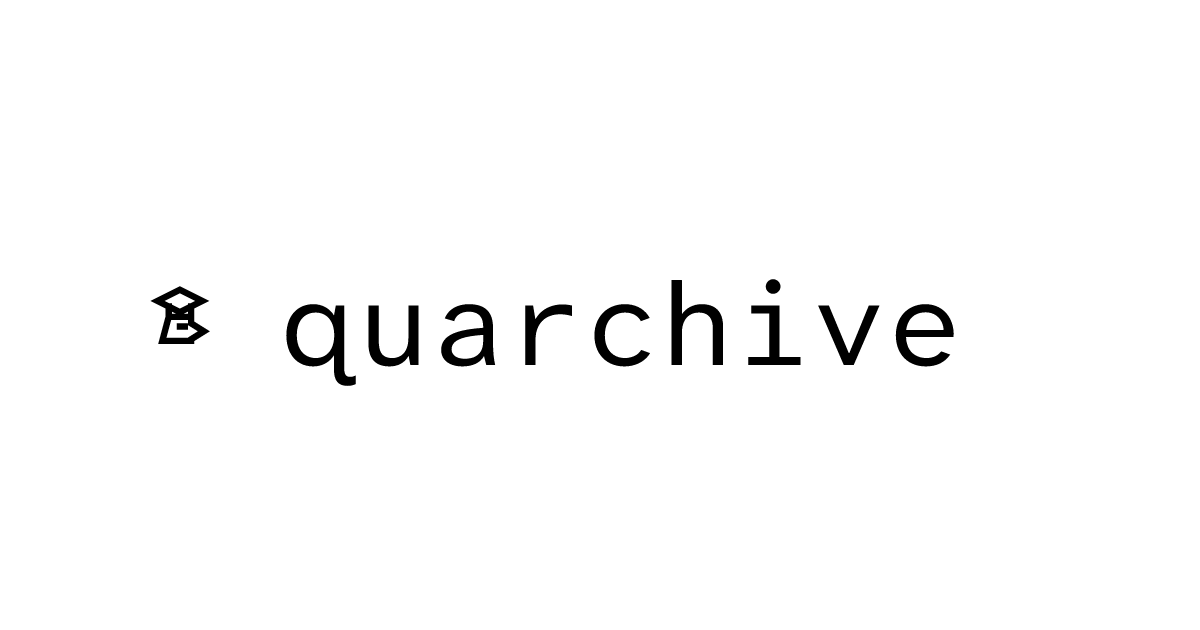
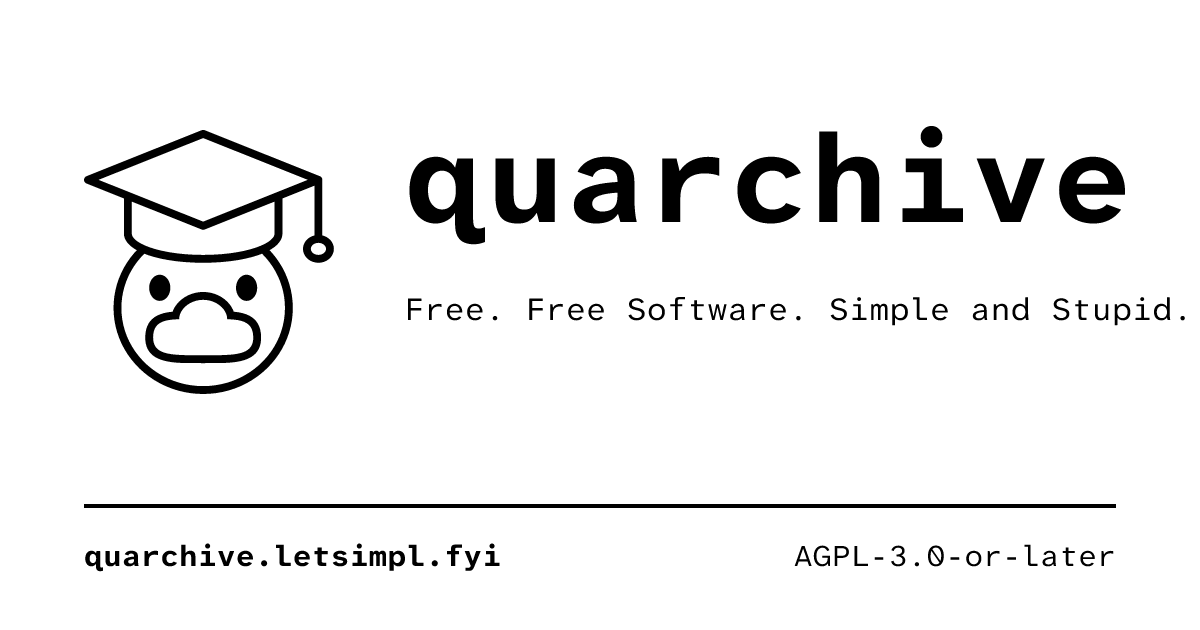
use the official Quarchive brand kit

diff --git a/tests/shell.test.js b/tests/shell.test.js
@@ -1,7 +1,9 @@
 import test from 'node:test';
 import assert from 'node:assert/strict';
+import { createHash } from 'node:crypto';
 import { readFileSync, existsSync, readdirSync } from 'node:fs';
 const read = path => readFileSync(new URL(`../${path}`, import.meta.url), 'utf8');
+const bytes = path => readFileSync(new URL(`../${path}`, import.meta.url));
 const exists = path => existsSync(new URL(`../${path}`, import.meta.url));
 const filesIn = dir => {
   if (!exists(dir)) return null;
@@ -18,9 +20,15 @@ test('manifest icons exist and the page links its icons and scripts', () => {
   for (const [, href] of read('index.html').matchAll(/(?:href|src)="\.\/([^"]+)"/g)) assert.ok(exists(href), href);
 });
 
-test('icons are the quarchive brand kit copies (never redrawn here)', () => {
-  assert.match(read('icons/BRAND-README.md'), /quarchive/i);
+test('icons are unedited copies of the official Quarchive brand kit', () => {
+  const assets = JSON.parse(read('brand/brand.json')).assets;
+  assert.ok(assets && Object.keys(assets).length);
+  assert.deepEqual(filesIn('icons').sort(), Object.keys(assets).sort());
+  assert.match(read('icons/README.md'), /founder/i);
   assert.match(read('icons/favicon.svg'), /quarchive/i);
+  for (const [name, hash] of Object.entries(assets)) {
+    assert.equal(createHash('sha256').update(bytes(`icons/${name}`)).digest('hex'), hash, name);
+  }
 });
 
 test('service worker: precaches every runtime file, versions its cache with the app and leaves /api/* on the network', () => {

diff --git a/sw.js b/sw.js
@@ -19,7 +19,12 @@ const SHELL = [
   './brand/fonts/courier-prime-400-latin.woff2', './brand/fonts/courier-prime-700-latin.woff2', './brand/fonts/noto-serif-malayalam.woff2',
   './vendor/preact.module.js', './vendor/htm.module.js', './vendor/pdf-lib/pdf-lib.mjs',
   './vendor/browser-image-compression/browser-image-compression.mjs', './vendor/pdfjs/pdf.mjs', './vendor/pdfjs/pdf.worker.mjs',
-  './icons/favicon.svg', './icons/logo-mark.svg', './icons/logo-mark-inverse.svg', './icons/icon-192.png', './icons/icon-512.png', './icons/icon-512-maskable.png', './icons/apple-touch-icon.png', './icons/og-image.png',
+  './icons/logo-primary.svg', './icons/logo-primary-inverse.svg', './icons/logo-mark.svg', './icons/logo-mark-inverse.svg',
+  './icons/logo-mono.svg', './icons/logo-mono-inverse.svg', './icons/favicon.svg', './icons/app-icon.svg',
+  './icons/app-icon-192.png', './icons/app-icon-512.png', './icons/apple-touch-icon-180.png', './icons/app-icon-maskable.svg',
+  './icons/app-icon-maskable-512.png', './icons/splash.svg', './icons/splash-1080x1920.png', './icons/loading.svg',
+  './icons/loading-1080x1920.png', './icons/og-image.svg', './icons/og-image.png', './icons/github-social.svg',
+  './icons/github-social.png', './icons/avatar-400.png',
 ];
 
 self.addEventListener('install', event => {

diff --git a/index.html b/index.html
@@ -28,8 +28,8 @@
   <meta name="apple-mobile-web-app-title" content="quarchive">
   <link rel="manifest" href="./manifest.json">
   <link rel="icon" type="image/svg+xml" href="./icons/favicon.svg">
-  <link rel="icon" type="image/png" sizes="192x192" href="./icons/icon-192.png">
-  <link rel="apple-touch-icon" href="./icons/apple-touch-icon.png">
+  <link rel="icon" type="image/png" sizes="192x192" href="./icons/app-icon-192.png">
+  <link rel="apple-touch-icon" href="./icons/apple-touch-icon-180.png">
   <script src="./js/theme.js"></script>
   <link rel="stylesheet" href="./brand/tokens/tokens.css">
   <link rel="stylesheet" href="./brand/css/base.css">

diff --git a/icons/README.md b/icons/README.md
@@ -1,0 +1,77 @@
+# quarchive brand kit
+
+quarchive (quarchive.letsimpl.fyi) is a serverless, open-source archive of previous-year university exam question
+papers. This folder is its identity kit. Source of truth is this repo; apps copy from here
+(`https://brand.letsimpl.fyi/assets/quarchive/...`).
+
+Status: **ready** (founder-supplied, 2026-11-26).
+
+## Identity
+
+| | |
+|---|---|
+| Name | **quarchive** (lowercase, one word) |
+| Descriptor | **Free. Free Software. Simple and Stupid.** |
+| Licence line | AGPL-3.0-or-later |
+| Site | quarchive.letsimpl.fyi |
+
+There is no tagline. Do not write one; use the descriptor alone.
+
+## The mark
+
+A duck in a graduation cap. Round head, two solid eyes, a bill drawn as two open curves, and a mortarboard above with
+a band, a cord and a bobble hanging on the right. Line work, not filled blocks: 6 units of stroke on a 256-unit grid,
+so the drawing stays light and the shells stay open.
+
+Geometry (256-unit grid, viewBox `0 0 256 256`): the mortarboard is a rhombus centred on x 128, spanning x 40.153 to
+215.847 and y 25.069 to 95.222. The head is a circular arc closing at y 220.364, with the bill across the lower third.
+Visible extent including the stroke is x 37.153 to 227.632, y 22.069 to 223.364 — that box is what the kit scales and
+centres against, so the tassel on the right is accounted for.
+
+The mark is *nearly* symmetric: every mirrored control point is exact about x 128, and the tassel is the one
+deliberately one-sided element. Do not mirror or remove the tassel.
+
+Small sizes: the stroke is 6 of 256, which is thinner than a typical app icon and reads faint below about 24 px. The
+favicon is the same geometry with a `prefers-color-scheme` rule so it switches to white on a dark tab.
+
+The wordmark is "quarchive" in Atkinson Hyperlegible Mono Bold (SIL OFL 1.1), converted to outlines so no file needs
+the font. The mark is as tall as the type size and sits on the baseline. Gap between mark and word: about a third of
+the type size.
+
+## Use
+
+- Default: black on white (`logo-primary.svg`). On black use `logo-primary-inverse.svg`.
+- Clear space: at least half the mark's height on every side.
+- Minimum size: the mark 32 px; the lockup 160 px wide.
+- On a photo or any busy background use the one-colour logo on a solid white or black block.
+
+Do not: add colour, a drop shadow or a gradient; round the corners; change the stroke weight; add or remove the bill,
+the eyes or the tassel; rotate, outline or stretch it; redraw the wordmark in another font; put the mark inside a
+rounded shape.
+
+## Files
+
+| File | Use |
+|---|---|
+| `logo-mark.svg`, `logo-mark-inverse.svg` | Symbol only, transparent |
+| `logo-primary.svg`, `logo-primary-inverse.svg` | Lockup (mark + wordmark), 16:9, on page / on ink |
+| `logo-mono.svg`, `logo-mono-inverse.svg` | One-colour lockup, transparent |
+| `favicon.svg` | Browser tab; follows the device light/dark scheme |
+| `app-icon.svg`, `app-icon-192.png`, `app-icon-512.png`, `apple-touch-icon-180.png` | App icons, full bleed, black on white |
+| `app-icon-maskable.svg`, `app-icon-maskable-512.png` | Maskable icon (mark inside the 80% safe zone) |
+| `splash.svg`, `splash-1080x1920.png` | PWA splash, 9:16 |
+| `loading.svg`, `loading-1080x1920.png` | Loading screen, 9:16 (word "Loading") |
+| `og-image.svg`, `og-image.png` | Social share image, 1200 x 630 |
+| `github-social.svg`, `github-social.png` | GitHub social preview, 1280 x 640 |
+| `avatar-400.png` | Profile picture |
+
+## Licence
+
+Design assets: CC BY-SA 4.0 (see `../../LICENSING.md`). The Atkinson Hyperlegible Mono outlines keep the OFL notice
+in `../../fonts/`.
+
+## Provenance
+
+The mark was drawn by the founder in VectorCraft on 2026-11-26; its control points were normalised to exact
+left-right symmetry, and this kit was generated from it by an AI assistant at the founder's direction, as a
+documented exception to the no-agent-brand-material rule. See `../../CREDITS.md` and `../../tools/quarchive-kit.py`.

diff --git a/AGENTS.md b/AGENTS.md
@@ -15,14 +15,14 @@ Design comes from **https://brand.letsimpl.fyi**, the source of truth for the wh
 - Fonts are self-hosted by the brand. No CDN, analytics, trackers, cookie banners or third-party requests. The CSP in `_headers` allows only the API hosts actually used.
 - Accessibility floor: 4.5:1 text, 3:1 control edges, 44px targets (48px preferred), 3px focus ring, 320px width, 200% text, `prefers-reduced-motion`, `prefers-color-scheme`, skip link, visible labels.
 - **Do not invent brand copy** (taglines, slogans, mission statements). Documentation prose is fine.
-- **Do not generate brand assets** without an explicit request from the founder. The existing duck-with-cap kit in `icons/` was generated by an AI subagent at the user's explicit request and is pending founder review; treat it as provisional. Record any borrowed or generated material in `CREDITS.md`.
+- **Do not generate brand assets** without an explicit request from the founder. The duck-with-cap kit in `icons/` is the official, founder-drawn Quarchive kit from the brand repo; `npm run brand` refreshes it. Record any borrowed or generated material in `CREDITS.md`.
 
 ## Layout
 
 ```
 index.html          App shell: metadata, theme script, brand CSS + styles.css, js/main.js
 styles.css          App layout only; all design values come from brand/
-brand/              Vendored tokens, CSS, fonts + brand.json checksums (do not edit)
+brand/              Vendored tokens, CSS, fonts + brand.json checksums for brand/ and icons/ (do not edit)
 vendor/             Prebuilt ESM libraries + licences (no npm install at runtime)
 js/
   main.js           Mounts the app into #app, starts update checks
@@ -36,7 +36,7 @@ js/
   *.js              Pure logic ported from the old React app (archive, metadata, dedup, wikidata, ...)
 functions/api/      Cloudflare Pages Functions (login, s3keys, validate, upload, pdf)
 workers/            Hash + OCR Web Workers
-icons/              Provisional identity kit + BRAND-README.md
+icons/              Official Quarchive identity kit vendored from the brand repo + README.md
 sw.js               Versioned app-shell precache
 _headers            Cache policy and strict CSP
 tests/              node:test units + policy tests, tests/e2e/ Playwright specs

diff --git a/ROADMAP.md b/ROADMAP.md
@@ -476,11 +476,10 @@ All three layers from CLAUDE.md §12 run per file, but with batch-specific UX:
 ## Phase 10 — Branding: Quackademic the Duck *(deferred)*
 
 > **Status: superseded.** Branding now follows https://brand.letsimpl.fyi, not the
-> yellow duck palette below. The user explicitly asked for a minimal monoline
-> duck-with-cap mark; `icons/` contains an agent-generated provisional kit pending
-> founder review. Bulk upload (Phase 9A) is implemented in code even though parts
-> of this roadmap still describe it as parked. The notes below are kept as the
-> historical plan of record, not as instructions for the current UI.
+> yellow duck palette below. The founder-drawn duck-with-cap kit is vendored from
+> the brand repo into `icons/`. Bulk upload (Phase 9A) is implemented in code even
+> though parts of this roadmap still describe it as parked. The notes below are
+> kept as the historical plan of record, not as instructions for the current UI.
 
 **Goal:** Give Quarchive a distinct, memorable visual identity built around the pun at the heart of the name — **Quack** + **Archive**. The mascot is **Quackademic**, a scholarly duck who keeps papers safe. Applies to logo, favicon, navigation, empty states, OG image, and README hero. Must respect the existing mobile-first, editorial aesthetic (CLAUDE.md §2).
 

diff --git a/DESIGN.md b/DESIGN.md
@@ -39,6 +39,6 @@ Search and metadata come from Archive.org; institution search from Wikidata SPAR
 
 ## Identity kit
 
-The brand repo has no Quarchive asset kit. At the user's explicit request an AI subagent generated a provisional monoline duck-with-cap mark in `icons/` (favicon, logo mark, PWA icons and OG image). It follows the brand's black/white stroke style but **deviates from the brand repo rule that agents create no brand material**. It is pending founder review and should be promoted into `brand/assets/quarchive/` if accepted. The header wordmark itself remains live text in CSS, not an image.
+The official Quarchive kit — the founder's duck in a graduation cap — is vendored unedited from `https://brand.letsimpl.fyi/assets/quarchive/` into `icons/` by `npm run brand`. The header wordmark itself remains live text in CSS, not an image.
 
 This file contains no brand copy. Product words are kept to functional labels; founder-reviewed prose lives in `README.md`.

diff --git a/CREDITS.md b/CREDITS.md
@@ -10,6 +10,6 @@
 - **Internet Archive** — permanent, free storage and the Advanced Search / metadata APIs.
 - **Wikidata** — canonical institution identifiers and SPARQL queries.
 - **gpura.org** — Kerala Digital Archive (Granthappura), the original UI inspiration for the mobile-first document layout.
-- **Identity kit** — the provisional duck-with-cap mark in `icons/` was generated by an AI subagent at the user's explicit request; it is not yet part of the brand repo and is pending founder review. No third-party artwork was used.
+- **Identity kit** — the official Quarchive duck-with-cap kit from [the letsimpl.fyi brand](https://brand.letsimpl.fyi/#/assets), vendored unedited into `icons/`. The mark was drawn by the founder in VectorCraft; the kit was generated by an AI assistant at the founder's direction. Design: CC BY-SA 4.0.
 
 Versions, source URLs and refresh commands for every vendored library are in `vendor/README.md`.

diff --git a/README.md b/README.md
@@ -40,7 +40,7 @@ Push to `main`. `.github/workflows/deploy.yml` runs the tests, stages `dist/` (i
 
 ## Identity
 
-The brand repo has no Quarchive asset kit. The monoline duck-with-cap files in `icons/` were generated by an AI subagent at the user's explicit request, pending founder review; see `icons/BRAND-README.md`. The header wordmark itself is live text in CSS.
+The official Quarchive kit — the founder's duck in a graduation cap — comes from the brand repo and is vendored unedited into `icons/` by `npm run brand`; see `icons/README.md`. The header wordmark itself is live text in CSS.
 
 ## Licence
 
